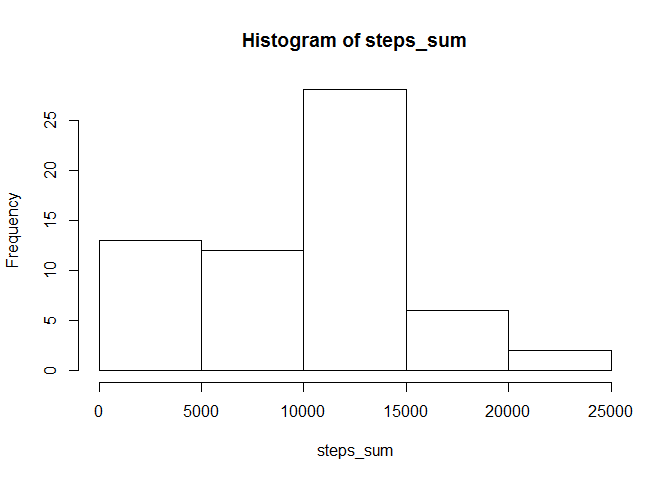
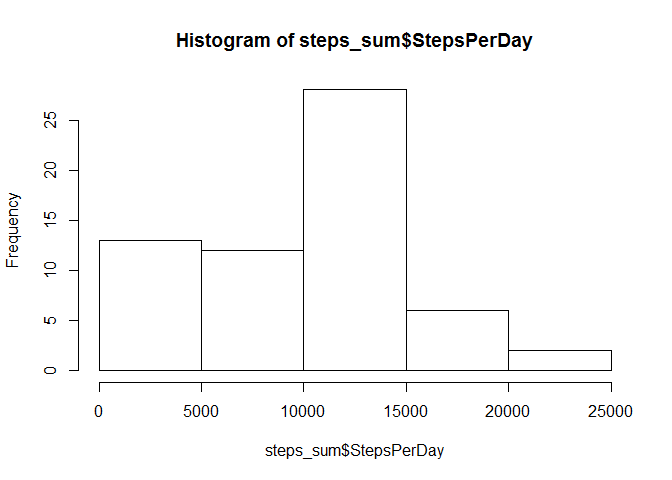
#2

Changed region(s): [[0.25, 0.0625, 0.8125, 0.125], [0.4062, 0.9062, 0.6562, 0.9688]]

diff --git a/PA1_template.html b/PA1_template.html
@@ -141,32 +141,107 @@ $(document).ready(function () {
 <ol style="list-style-type: decimal">
 <li>Calculate the total number of steps taken per day</li>
 </ol>
-<pre class="r"><code>steps_sum &lt;- tapply(steps,date,sum,na.rm=T)
-hist(steps_sum)</code></pre>
[1 lines of base64/hex data omitted]
+<pre class="r"><code>steps_sum &lt;- aggregate(steps, by=list(date), sum, na.rm=T)
+names(steps_sum) &lt;- c(&quot;date&quot;, &quot;StepsPerDay&quot;)</code></pre>
 <ol start="2" style="list-style-type: decimal">
 <li>If you do not understand the difference between a histogram and a barplot, research the difference between them. Make a histogram of the total number of steps taken each day</li>
 </ol>
-<pre class="r"><code>hist(steps_sum)</code></pre>
[1 lines of base64/hex data omitted]
+<pre class="r"><code>hist(steps_sum$StepsPerDay)</code></pre>
[1 lines of base64/hex data omitted]
 <ol start="3" style="list-style-type: decimal">
 <li>Calculate and report the mean and median of the total number of steps taken per day</li>
 </ol>
 <pre class="r"><code>#Mean
-mean(steps_sum)</code></pre>
+mean(steps_sum$StepsPerDay, na.rm=T)</code></pre>
 <pre><code>## [1] 9354.23</code></pre>
 <pre class="r"><code>#Median
-median(steps_sum)</code></pre>
+median(steps_sum$StepsPerDay, na.rm=T)</code></pre>
 <pre><code>## [1] 10395</code></pre>
 </div>
 <div id="what-is-the-average-daily-activity-pattern" class="section level2">
 <h2>What is the average daily activity pattern?</h2>
+<ol style="list-style-type: decimal">
+<li>Make a time series plot (i.e. type = “l”) of the 5-minute interval (x-axis) and the average number of steps taken, averaged across all days (y-axis)</li>
+</ol>
+<pre class="r"><code>time_series &lt;- tapply(df$steps, df$interval, mean, na.rm=T)
+plot(time_series, type=&quot;l&quot;)</code></pre>
[1 lines of base64/hex data omitted]
+<ol start="2" style="list-style-type: decimal">
+<li>Which 5-minute interval, on average across all the days in the dataset, contains the maximum number of steps?</li>
+</ol>
+<pre class="r"><code>names(time_series[max(time_series)])</code></pre>
+<pre><code>## [1] &quot;1705&quot;</code></pre>
 </div>
 <div id="imputing-missing-values" class="section level2">
 <h2>Imputing missing values</h2>
+<ol style="list-style-type: decimal">
+<li>Calculate and report the total number of missing values in the dataset (i.e. the total number of rows with NA</li>
+</ol>
+<pre class="r"><code>df.na &lt;- nrow(df[is.na(df$steps),])
+df.na</code></pre>
+<pre><code>## [1] 2304</code></pre>
+<p>Total number of missing values in the data set is 2304</p>
+<ol start="2" style="list-style-type: decimal">
+<li>Devise a strategy for filling in all of the missing values in the dataset. The strategy does not need to be sophisticated. For example, you could use the mean/median for that day, or the mean for that 5-minute interval, etc.</li>
+</ol>
+<pre class="r"><code>StepsAverage &lt;- aggregate(steps ~ interval, data = df, FUN = mean)
+fillNA &lt;- numeric()
+for (i in 1:nrow(df)) {
+    obs &lt;- df[i, ]
+    if (is.na(obs$steps)) {
+        steps &lt;- subset(StepsAverage, interval == obs$interval)$steps
+    } else {
+        steps &lt;- obs$steps
+    }
+    fillNA &lt;- c(fillNA, steps)
+}</code></pre>
+<ol start="3" style="list-style-type: decimal">
+<li>Create a new dataset that is equal to the original dataset but with the missing data filled in.</li>
+</ol>
+<pre class="r"><code>new_df &lt;- df
+new_df$steps &lt;- fillNA
+head(new_df)</code></pre>
+<pre><code>##       steps       date interval
+## 1 1.7169811 2012-10-01        0
+## 2 0.3396226 2012-10-01        5
+## 3 0.1320755 2012-10-01       10
+## 4 0.1509434 2012-10-01       15
+## 5 0.0754717 2012-10-01       20
+## 6 2.0943396 2012-10-01       25</code></pre>
+<ol start="4" style="list-style-type: decimal">
+<li>Make a histogram of the total number of steps taken each day and Calculate and report the mean and median total number of steps taken per day. Do these values differ from the estimates from the first part of the assignment? What is the impact of imputing missing data on the estimates of the total daily number of steps?</li>
+</ol>
+<pre class="r"><code>steps_tot &lt;- aggregate(new_df$steps, by=list(new_df$interval), FUN = sum, na.rm=T)
+names(steps_tot) &lt;- c(&quot;interval&quot;,&quot;stepsSum&quot;)
+hist(steps_tot$stepsSum)</code></pre>
[1 lines of base64/hex data omitted]
+<pre class="r"><code>mean(steps_tot$stepsSum)</code></pre>
+<pre><code>## [1] 2280.339</code></pre>
+<pre class="r"><code>median(steps_tot$stepsSum)</code></pre>
+<pre><code>## [1] 2080.906</code></pre>
 </div>
 <div id="are-there-differences-in-activity-patterns-between-weekdays-and-weekends" class="section level2">
 <h2>Are there differences in activity patterns between weekdays and weekends?</h2>
+<p>For this part the weekdays() function may be of some help here. Use the dataset with the filled-in missing values for this part.</p>
+<ol style="list-style-type: decimal">
+<li>Create a new factor variable in the dataset with two levels - “weekday” and “weekend” indicating whether a given date is a weekday or weekend day.</li>
+</ol>
+<pre class="r"><code>new_df$date &lt;- as.Date(as.character(new_df$date))
+new_df$day &lt;- weekdays(new_df$date)
+new_df$daylevel &lt;- ifelse(weekdays(new_df$date) %in% c(&quot;Samstag&quot;,&quot;Sonntag&quot;),&quot;Weekend&quot;,&quot;Weekday&quot;)
+table(new_df$daylevel)</code></pre>
+<pre><code>## 
+## Weekday Weekend 
+##   12960    4608</code></pre>
+<ol start="2" style="list-style-type: decimal">
+<li>Make a panel plot containing a time series plot (i.e. type = “l”) of the 5-minute interval (x-axis) and the average number of steps taken, averaged across all weekday days or weekend days (y-axis). See the README file in the GitHub repository to see an example of what this plot should look like using simulated data.</li>
+</ol>
+<pre class="r"><code>stepsByDay &lt;- aggregate(steps ~ interval + daylevel, data=new_df, mean)
+names(stepsByDay) &lt;- c(&quot;interval&quot;,&quot;daylevel&quot;,&quot;steps&quot;)
+
+library(lattice)
+xyplot(steps ~ interval | daylevel, stepsByDay, layout=c(1,2), type=&quot;l&quot;)</code></pre>
[1 lines of base64/hex data omitted]
 </div>
 
 

diff --git a/PA1_template.md b/PA1_template.md
@@ -22,16 +22,14 @@ attach(df)
 1. Calculate the total number of steps taken per day
 
 ```r
-steps_sum <- tapply(steps,date,sum,na.rm=T)
-hist(steps_sum)
+steps_sum <- aggregate(steps, by=list(date), sum, na.rm=T)
+names(steps_sum) <- c("date", "StepsPerDay")
 ```
-
-![](PA1_template_files/figure-html/unnamed-chunk-3-1.png)<!-- -->
 
 2. If you do not understand the difference between a histogram and a barplot, research the difference between them. Make a histogram of the total number of steps taken each day
 
 ```r
-hist(steps_sum)
+hist(steps_sum$StepsPerDay)
 ```
 
 ![](PA1_template_files/figure-html/unnamed-chunk-4-1.png)<!-- -->
@@ -40,7 +38,7 @@ hist(steps_sum)
 
 ```r
 #Mean
-mean(steps_sum)
+mean(steps_sum$StepsPerDay, na.rm=T)
 ```
 
 ```
@@ -49,7 +47,7 @@ mean(steps_sum)
 
 ```r
 #Median
-median(steps_sum)
+median(steps_sum$StepsPerDay, na.rm=T)
 ```
 
 ```
@@ -57,11 +55,130 @@ median(steps_sum)
 ```
 
 ## What is the average daily activity pattern?
+1. Make a time series plot (i.e. type = "l") of the 5-minute interval (x-axis) and the average number of steps taken, averaged across all days (y-axis)
 
+```r
+time_series <- tapply(df$steps, df$interval, mean, na.rm=T)
+plot(time_series, type="l")
+```
 
+![](PA1_template_files/figure-html/unnamed-chunk-6-1.png)<!-- -->
+
+2. Which 5-minute interval, on average across all the days in the dataset, contains the maximum number of steps?
+
+```r
+names(time_series[max(time_series)])
+```
+
+```
+## [1] "1705"
+```
 
 ## Imputing missing values
+1. Calculate and report the total number of missing values in the dataset (i.e. the total number of rows with NA
+
+```r
+df.na <- nrow(df[is.na(df$steps),])
+df.na
+```
+
+```
+## [1] 2304
+```
+
+Total number of missing values in the data set is 2304
+
+
+2. Devise a strategy for filling in all of the missing values in the dataset. The strategy does not need to be sophisticated. For example, you could use the mean/median for that day, or the mean for that 5-minute interval, etc.
+
+```r
+StepsAverage <- aggregate(steps ~ interval, data = df, FUN = mean)
+fillNA <- numeric()
+for (i in 1:nrow(df)) {
+    obs <- df[i, ]
+    if (is.na(obs$steps)) {
+        steps <- subset(StepsAverage, interval == obs$interval)$steps
+    } else {
+        steps <- obs$steps
+    }
+    fillNA <- c(fillNA, steps)
+}
+```
+
+
+3. Create a new dataset that is equal to the original dataset but with the missing data filled in.
+
+```r
+new_df <- df
+new_df$steps <- fillNA
+head(new_df)
+```
+
+```
+##       steps       date interval
+## 1 1.7169811 2012-10-01        0
+## 2 0.3396226 2012-10-01        5
+## 3 0.1320755 2012-10-01       10
+## 4 0.1509434 2012-10-01       15
+## 5 0.0754717 2012-10-01       20
+## 6 2.0943396 2012-10-01       25
+```
+
+
+4. Make a histogram of the total number of steps taken each day and Calculate and report the mean and median total number of steps taken per day. Do these values differ from the estimates from the first part of the assignment? What is the impact of imputing missing data on the estimates of the total daily number of steps?
+
+```r
+steps_tot <- aggregate(new_df$steps, by=list(new_df$interval), FUN = sum, na.rm=T)
+names(steps_tot) <- c("interval","stepsSum")
+hist(steps_tot$stepsSum)
+```
+
+![](PA1_template_files/figure-html/unnamed-chunk-11-1.png)<!-- -->
+
+```r
+mean(steps_tot$stepsSum)
+```
+
+```
+## [1] 2280.339
+```
+
+```r
+median(steps_tot$stepsSum)
+```
+
+```
+## [1] 2080.906
+```
 
 
 
 ## Are there differences in activity patterns between weekdays and weekends?
+For this part the weekdays() function may be of some help here. Use the dataset with the filled-in missing values for this part.
+
+1. Create a new factor variable in the dataset with two levels - "weekday" and "weekend" indicating whether a given date is a weekday or weekend day.
+
+```r
+new_df$date <- as.Date(as.character(new_df$date))
+new_df$day <- weekdays(new_df$date)
+new_df$daylevel <- ifelse(weekdays(new_df$date) %in% c("Samstag","Sonntag"),"Weekend","Weekday")
+table(new_df$daylevel)
+```
+
+```
+## 
+## Weekday Weekend 
+##   12960    4608
+```
+
+2. Make a panel plot containing a time series plot (i.e. type = "l") of the 5-minute interval (x-axis) and the average number of steps taken, averaged across all weekday days or weekend days (y-axis). See the README file in the GitHub repository to see an example of what this plot should look like using simulated data.
+
+```r
+stepsByDay <- aggregate(steps ~ interval + daylevel, data=new_df, mean)
+names(stepsByDay) <- c("interval","daylevel","steps")
+
+library(lattice)
+xyplot(steps ~ interval | daylevel, stepsByDay, layout=c(1,2), type="l")
+```
+
+![](PA1_template_files/figure-html/unnamed-chunk-13-1.png)<!-- -->
